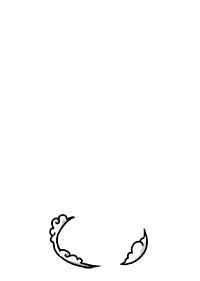
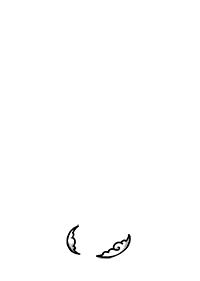
Progress on the effects, but not really anything working yet

Changed region(s): [[0.24, 0.7402, 0.75, 0.968]]

diff --git a/Project/Oquonie/Oquonie/xxiivvViewController.m b/Project/Oquonie/Oquonie/xxiivvViewController.m
@@ -122,10 +122,29 @@
 - (void) moveAnimation
 {
 	userSpriteState = @"walk";
-	self.userPlayerChar.image = [UIImage imageNamed: [NSString stringWithFormat:@"%@", [self templateSpriteName:@"1"] ] ];
+	[self userSpriteUpdate:[self templateSpriteName:@"1"]];
 	[NSTimer scheduledTimerWithTimeInterval:0.15 target:self selector:@selector(animator1) userInfo:nil repeats:NO];
 	[NSTimer scheduledTimerWithTimeInterval:0.30 target:self selector:@selector(animator2) userInfo:nil repeats:NO];
 }
+
+- (void) animator1
+{
+	userSpriteState = @"walk";
+	[self userSpriteUpdate:[self templateSpriteName:@"2"]];
+}
+
+- (void) animator2
+{
+	userSpriteState = @"stand";
+	[self userSpriteUpdate:[self templateSpriteName:@"1"]];
+}
+
+-(void)userSpriteUpdate :(NSString*)imageName
+{
+	NSLog(@" (%@)", imageName);
+	self.userPlayerChar.image = [UIImage imageNamed: imageName];
+}
+
 
 - (void) moveEnable
 {
@@ -205,7 +224,7 @@
 
 -(void)moveCollideAnimateChar :(int)posX :(int)posY
 {
-	self.userPlayerChar.image = [UIImage imageNamed: [NSString stringWithFormat:@"%@", [self templateSpriteName:@""] ] ];
+	[self userSpriteUpdate:[NSString stringWithFormat:@"%@", [self templateSpriteName:@""]]];
 	CGRect userOrigin = self.userPlayer.frame;
 	if( (posX == -1 && posY == 0) || (posX == 0 && posY == 1) ){ self.userPlayer.frame = CGRectOffset(self.userPlayer.frame, 2, 0); }
 	if( (posX == 0 && posY == -1) || (posX == 1 && posY == 0) ){ self.userPlayer.frame = CGRectOffset(self.userPlayer.frame, -2, 0); }
@@ -237,18 +256,6 @@
 }
 
 # pragma mark Misc -
-
-- (void) animator1
-{
-	userSpriteState = @"walk";
-	self.userPlayerChar.image = [UIImage imageNamed: [NSString stringWithFormat:@"%@", [self templateSpriteName:@"2"] ] ];
-}
-
-- (void) animator2
-{
-	userSpriteState = @"stand";
-	self.userPlayerChar.image = [UIImage imageNamed: [NSString stringWithFormat:@"%@", [self templateSpriteName:@"1"] ] ];
-}
 
 - (CGRect) tileLocation :(int)type :(int)posX :(int)posY
 {
@@ -501,9 +508,8 @@
 
 -(void)timerAnimateUser
 {
-	// Only animate if still
 	if([userSpriteState isEqual:@"stand"]){
-		self.userPlayerChar.image = [UIImage imageNamed: [NSString stringWithFormat:@"%@", [self templateSpriteName:[NSString stringWithFormat:@"%d",worldTimerUserCount]] ] ];
+		[self userSpriteUpdate:[NSString stringWithFormat:@"%@", [self templateSpriteName:[NSString stringWithFormat:@"%d",worldTimerUserCount]]] ];
 	}
 }
 

diff --git a/Project/Oquonie/Oquonie/eventsNecomedre.m b/Project/Oquonie/Oquonie/eventsNecomedre.m
@@ -25,7 +25,7 @@
         [self eventDialog:@"AAA":@"11"];
     }
     else{
-        [self eventDialog:@"FRX":@"11"];
+        [self eventDialog:@"RIX":@"11"]; // Key Yes Document
     }
 	[self eventSpellAdd:eventSpellId:6];
 	
@@ -154,7 +154,6 @@
 		else if ( userLocation == 30 ){
 			[self eventWarp:@"29":@"0,1"];
 		}
-		
 	}
 	else{
 		[self eventDialog:@"FLX":@"12"];

diff --git a/Project/Oquonie/Oquonie/xxiivvViewController.h b/Project/Oquonie/Oquonie/xxiivvViewController.h
@@ -89,6 +89,7 @@
 
 -(CGRect) tileLocation :(int)type :(int)posX :(int)posY;
 -(int)flattenTileId :(int)tileId :(NSString*)axis;
+-(void)userSpriteUpdate :(NSString*)imageName;
 
 -(void)moveDisable :(float)disableTime;
 -(void)moveOrder;

diff --git a/Project/Oquonie/Oquonie/xxiivvSettings.h b/Project/Oquonie/Oquonie/xxiivvSettings.h
@@ -8,8 +8,8 @@
 
 #define systemDebug				1
 
-#define userCharacterId			1
-#define userCharacterLocation	29
+#define userCharacterId			6
+#define userCharacterLocation	30
 #define userCharacterX			0
 #define userCharacterY			0
 

diff --git a/Project/Oquonie/Oquonie/xxiivvEvents.m b/Project/Oquonie/Oquonie/xxiivvEvents.m
@@ -227,8 +227,9 @@
 	
 	NSLog(@"  EVENT | Spell        | Change Sprite" );
 	
-	userSpriteCharId = charId;
+	// TODO: Create the FX sprites
 	
+	userSpriteCharId = charId;
 	[self eventSpellRefresh];
 }
 
